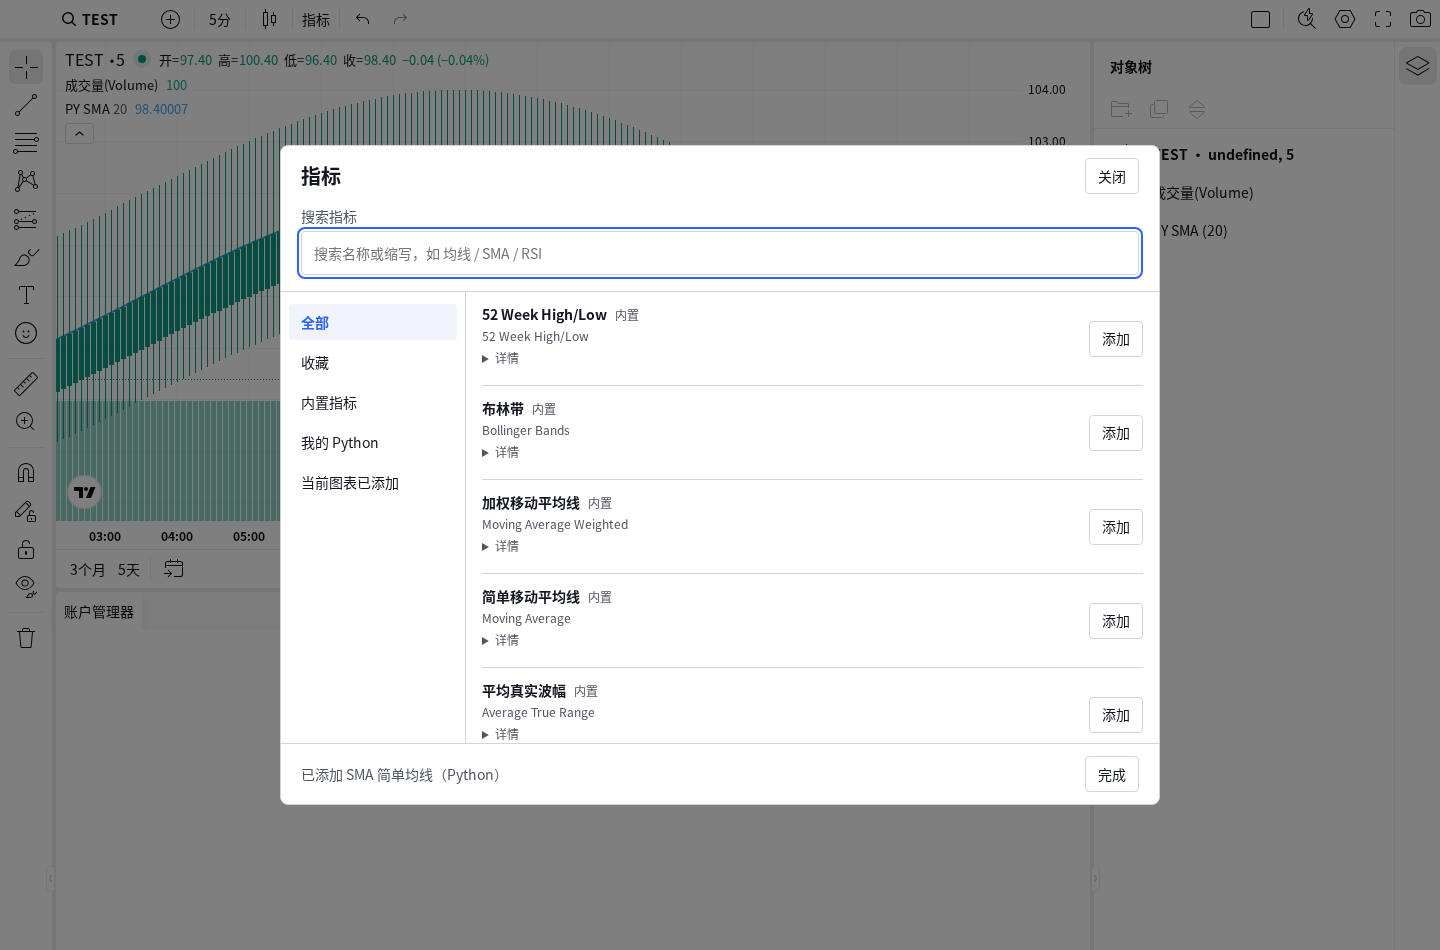
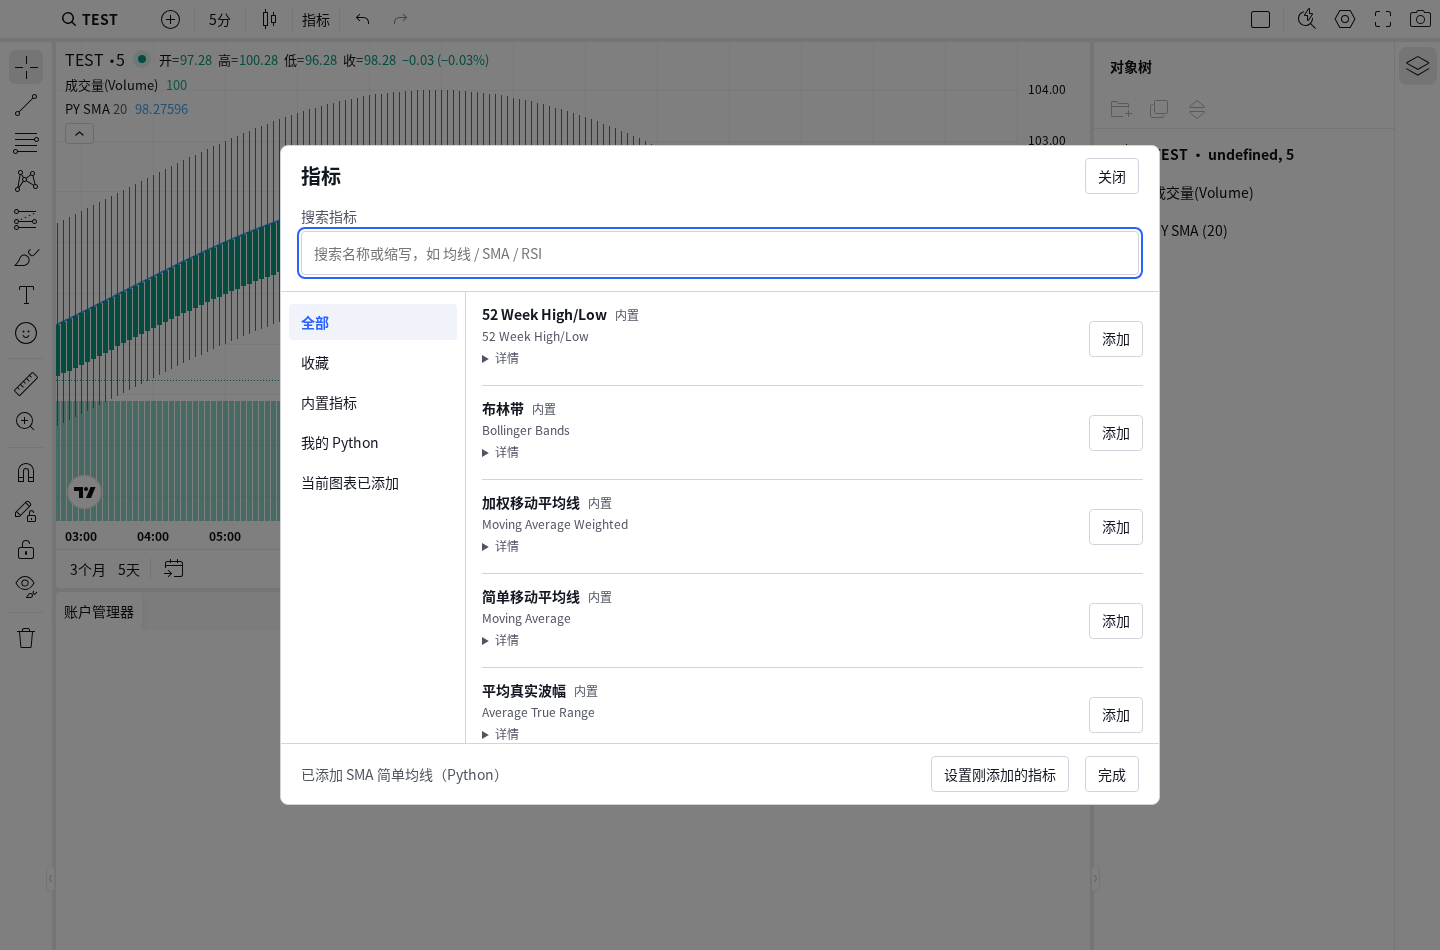
fix: expose direct study settings and verify legacy templates
Keep the search state when opening settings immediately after adding a study. Restore layouts and study templates created by the v1.7.0 Adapter to verify all eight study IDs, input order, parameter values, plot styles, and visibility. Docker and favorites acceptance remain pending.

diff --git a/advanced-host/indicator-picker.js b/advanced-host/indicator-picker.js
@@ -92,7 +92,8 @@ function chartIndicatorPicker(chartWidget, catalog, report) {
   let category = "all",
     disposed = false,
     lastFocus,
-    pointerButton;
+    pointerButton,
+    latestAdded;
   const rememberPointer = (event) => {
     if (!dialog.open && !suspended)
       pointerButton = event.target.closest("button, [role=button]");
@@ -130,6 +131,19 @@ function chartIndicatorPicker(chartWidget, catalog, report) {
     };
     return node;
   };
+  const latestSettings = action("设置刚添加的指标", () => {
+    if (!latestAdded) return;
+    const { chart, id } = latestAdded;
+    if (!chart.getAllStudies().some((study) => study.id === id)) {
+      latestAdded = undefined;
+      latestSettings.hidden = true;
+      status.textContent = "该指标已移除";
+      return;
+    }
+    nativeDialog(() => chart.showPropertiesDialog(id));
+  });
+  latestSettings.hidden = true;
+  dialog.querySelector("footer [data-close]").before(latestSettings);
   function theme() {
     dialog.dataset.theme = chartWidget.getTheme().toLowerCase();
   }
@@ -344,6 +358,8 @@ function chartIndicatorPicker(chartWidget, catalog, report) {
             const id = await chart.createStudy(entry.name, false, false);
             if (disposed) return;
             if (id === null) throw Error("指标未添加，请检查图表提示");
+            latestAdded = { chart, id };
+            latestSettings.hidden = false;
             status.textContent = `已添加 ${entry.label}（${entry.source}）`;
           },
           `添加 ${entry.label}（${entry.source}）`,

diff --git a/advanced-host/indicator-picker.css b/advanced-host/indicator-picker.css
@@ -218,3 +218,10 @@
     width: 100%;
   }
 }
+
+.mw-indicator-picker footer {
+  flex-wrap: wrap;
+}
+.mw-indicator-picker footer [role="status"] {
+  flex: 1 1 200px;
+}

diff --git a/docs/verification/indicator-picker/README.md b/docs/verification/indicator-picker/README.md
@@ -6,7 +6,7 @@
 
 - 自有指标窗口接入公开 header button；枚举、添加、参数设置、显隐和移除都使用公开图表 API。顶部名称/别名/ID 搜索，精确/前缀/包含排序；左侧来源导航；独立滚动列表；详情按需展开；窄屏分类选择。
 - Python 中文显示名与原生注册名分离。原生 study 名、metainfo ID、输入顺序和 plot 顺序保持稳定；不为内置条目猜测主副图信息。
-- 当前图表按实体 ID 管理，允许同名多实例；活动图表变化刷新列表；异步添加绑定发起时图表。原生设置关闭后返回并保留查询；窗口有显式 Tab/Shift+Tab 循环、Escape 关闭与焦点恢复。
+- 当前图表按实体 ID 管理，允许同名多实例；活动图表变化刷新列表；异步添加绑定发起时图表。添加后可直接进入原生设置，关闭后返回并保留查询；窗口有显式 Tab/Shift+Tab 循环、Escape 关闭与焦点恢复。
 - 后端公开目录只序列化显式声明，不执行算法、不导出 calculator/history_requirement。注册验证输出声明和参数规则；计算验证 key/顺序/一维数值/长度，输入只读；自定义预热声明优先。8 个既有算法与原预热规则保持稳定。
 - 未新增指标、计算缓存或依赖升级。兼容和扩展方法见 [维护说明](../../python-chart-indicator-maintenance.md)。
 
@@ -18,6 +18,7 @@
 | v1.7.0 数值差分 | 1200 根人工 OHLC，含未完成 K 线及 gap_before；8 个指标输出、null、曲线顺序与 `62488c6` 的计算结果逐项相等 |
 | 前端 | `npm run build` 通过；picker 搜索、Python Adapter、progressive-indicators 脚本通过；Ruff 与 diff whitespace 检查通过 |
 | 实际 v31 浏览器 Interface | `advanced-indicator-picker-native.browser.cjs` 使用本地许可库、Playwright 路由提供静态资源及合成行情，无运行服务器。公开按钮、搜索、同名多实例、显隐/移除、原生设置返回、多图、延迟添加、原生 study 保存恢复、浅深色、375px、Tab/Escape/焦点均通过。报告和截图见同目录 `native.json` / `native-*.png` |
+| 旧版本布局/模板/样式 | `advanced-indicator-compatibility.browser.cjs` 先使用 git `62488c6` 的旧 Adapter 创建 8 个 study、原生布局与模板，再由当前 Adapter 恢复；原生实体 ID、参数顺序、SMA(60)、BBANDS(25,2.5)、MACD(8,21,5)、颜色/线宽/显隐和 histogram plot2 均通过。证据 `compatibility.json`。合成行情，无服务器，不替代真实环境验收 |
 | Compose | 独立配置的 `docker compose ... config --services` 成功解析；仅有 pg/migrate/api/web/chart-origin/tls，无通知 worker |
 
 浏览器依赖缺失时，仅把 Ubuntu deb 的动态库解压到 `/tmp/mw-indicator-browser-libs`；没有修改系统库。实际浏览器测试不代表完整产品、数据库和真实行情验收。
@@ -70,3 +71,18 @@ LD_LIBRARY_PATH=/tmp/mw-indicator-browser-libs/root/usr/lib/x86_64-linux-gnu \
 PLAYWRIGHT_CHROMIUM_EXECUTABLE=/home/quant/.cache/ms-playwright/chromium-1243/chrome-linux64/chrome \
   node tests/advanced-indicator-picker-native.browser.cjs
 ```
+
+
+## 完成性核对（2026-10-04）
+
+| 交接要求 | 当前证据 | 状态 |
+|---|---|---|
+| 隔离 worktree/branch，保留其他任务 | `git worktree list` 与本分支提交 | 已完成 |
+| 搜索、分类、列表、已添加实例、直接参数设置 | 实際 v31 浏览器测试；native.json 与截图 | 实现和接口测试通过，待完整产品验收 |
+| 浅深色、窄屏、键盘、异步添加归属 | native.json 与实际浏览器断言 | 接口测试通过，待完整产品验收 |
+| 收藏星、已有收藏及新入口一致 | 没有公开运行时读写 Interface；候选为打开原生窗口 | 待用户选择，不能认为完整方案已完成 |
+| 目录与算法解耦、预热声明、非法输出错误、参数声明 | 56 项相关后端测试与数值差分 | 已完成本轮计算加固 |
+| 旧 ID/参数/模板/样式恢复 | 从 v1.7.0 Adapter 生成的原生布局/模板实际恢复：compatibility.json | 图表库接口通过；待完整产品数据库路径验收 |
+| Ubuntu 独立 Docker/网络/卷/数据库/端口 | compose.yaml 可解析；socket permission denied | 尚未部署 |
+| 真实行情完整验收与实际地址/操作命令/结果 | 完整脚本已准备，无运行结果 | 未通过，无实际验收地址 |
+| 不扩展新指标或假设接口、不部署生产 | 实施 diff 与本任务运行检查 | 遵守 |
